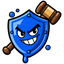
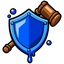
Badges without faces (same sticker style, drips kept); OG unchanged

diff --git a/fluxer_app/src/features/user/utils/DelightBadges.ts b/fluxer_app/src/features/user/utils/DelightBadges.ts
@@ -5,7 +5,7 @@ import type {MessageDescriptor} from '@lingui/core';
 import {msg} from '@lingui/core/macro';
 
 /** Bump when badge artwork changes, so browsers drop their cached copies. */
-const BADGE_ART_VERSION = '1';
+const BADGE_ART_VERSION = '2';
 
 export interface DelightBadge {
 	id: string;
